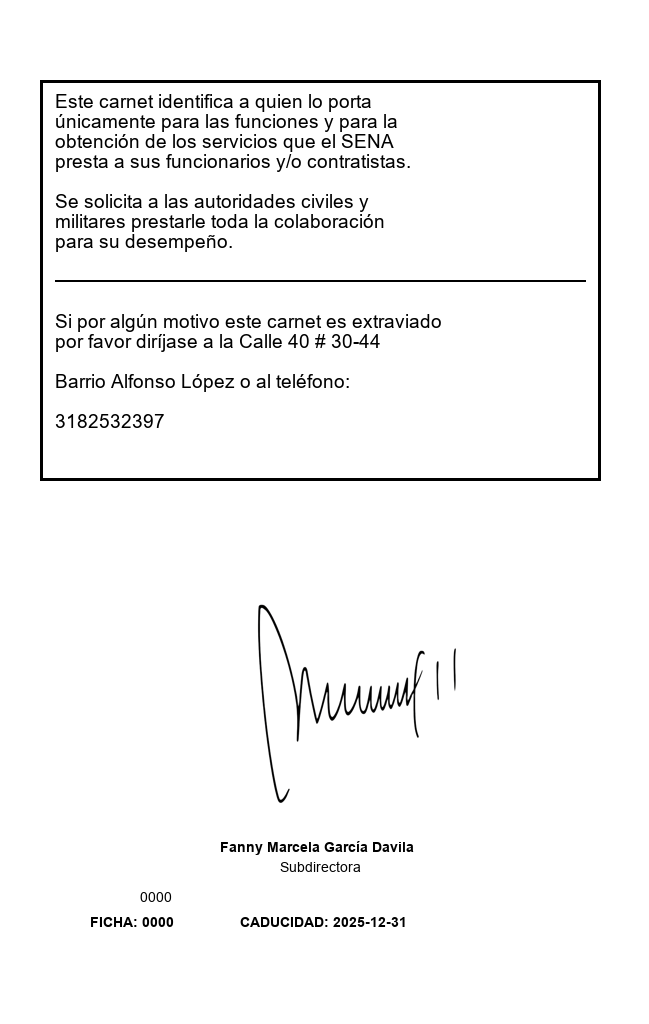
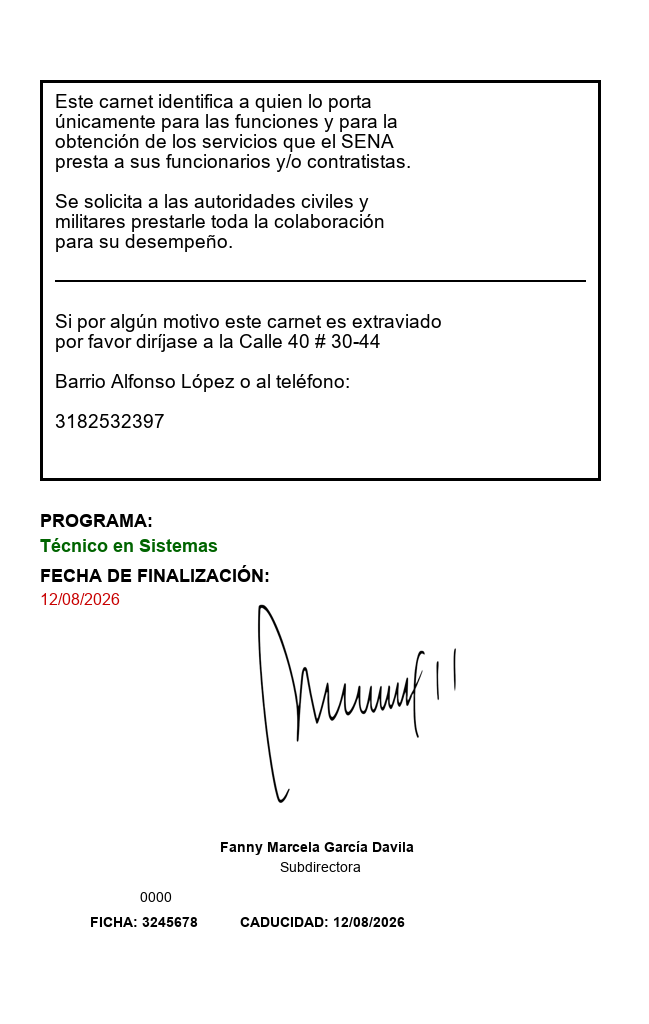
actualizaacion parte de atras del carnet

Changed region(s): [[0.0616, 0.5, 0.4006, 0.5938], [0.5239, 0.875, 0.6163, 0.9062], [0.2157, 0.875, 0.3082, 0.9062]]

diff --git a/imagen.py b/imagen.py
@@ -162,8 +162,10 @@ def generar_carnet(empleado, ruta_qr):
     # Fuente para el texto del reverso - TAMAÑO NORMAL
     try:
         font_reverso = ImageFont.truetype("arial.ttf", 19)  # Tamaño normal
+        font_programa = ImageFont.truetype("arialbd.ttf", 18)  # 🆕 Fuente para programa (negrita)
+        font_fecha = ImageFont.truetype("arial.ttf", 16)      # 🆕 Fuente para fecha
     except:
-        font_reverso = ImageFont.load_default()
+        font_reverso = font_programa = font_fecha = ImageFont.load_default()
 
     # CUADRO PRINCIPAL que encierra ambos textos
     cuadro_x, cuadro_y = 40, 80
@@ -209,6 +211,50 @@ def generar_carnet(empleado, ruta_qr):
     
     for i, line in enumerate(texto2_lines):
         draw_reverso.text((cuadro_x + 15, texto2_y + (i * 20)), line, fill=(0, 0, 0), font=font_reverso)
+
+    # 🆕🆕🆕 AGREGAR PROGRAMA Y FECHA DE FINALIZACIÓN 🆕🆕🆕
+    # Obtener datos del empleado
+    nombre_programa = empleado.get('nombre_programa', 'Programa Técnico')
+    fecha_finalizacion = empleado.get('fecha_vencimiento', '2025-12-31')
+    nivel_formacion = empleado.get('nivel_formacion', 'Técnico')
+    
+    # Formatear fecha (de YYYY-MM-DD a DD/MM/YYYY)
+    try:
+        from datetime import datetime
+        if '-' in fecha_finalizacion:  # Formato YYYY-MM-DD
+            fecha_obj = datetime.strptime(fecha_finalizacion, '%Y-%m-%d')
+            fecha_formateada = fecha_obj.strftime('%d/%m/%Y')
+        else:
+            fecha_formateada = fecha_finalizacion  # Ya está formateada
+    except:
+        fecha_formateada = fecha_finalizacion
+    
+    # Posición para el programa y fecha (debajo del cuadro principal)
+    info_adicional_y = cuadro_y + cuadro_alto + 30
+    
+    # 🎯 NOMBRE DEL PROGRAMA (con nivel de formación)
+    programa_completo = f"{nivel_formacion} en {nombre_programa}"
+    
+    # Dividir el programa en líneas si es muy largo
+    if len(programa_completo) > 45:  # Si es muy largo, dividir
+        palabras = programa_completo.split()
+        linea1_programa = " ".join(palabras[:4])  # Primeras 4 palabras
+        linea2_programa = " ".join(palabras[4:])  # Resto
+        
+        draw_reverso.text((cuadro_x, info_adicional_y), "PROGRAMA:", fill=(0, 0, 0), font=font_programa)
+        draw_reverso.text((cuadro_x, info_adicional_y + 25), linea1_programa, fill=(0, 100, 0), font=font_programa)
+        if linea2_programa:
+            draw_reverso.text((cuadro_x, info_adicional_y + 50), linea2_programa, fill=(0, 100, 0), font=font_programa)
+        siguiente_info_y = info_adicional_y + 80
+    else:
+        draw_reverso.text((cuadro_x, info_adicional_y), "PROGRAMA:", fill=(0, 0, 0), font=font_programa)
+        draw_reverso.text((cuadro_x, info_adicional_y + 25), programa_completo, fill=(0, 100, 0), font=font_programa)
+        siguiente_info_y = info_adicional_y + 55
+    
+    # 📅 FECHA DE FINALIZACIÓN
+    draw_reverso.text((cuadro_x, siguiente_info_y), "FECHA DE FINALIZACIÓN:", fill=(0, 0, 0), font=font_programa)
+    draw_reverso.text((cuadro_x, siguiente_info_y + 25), fecha_formateada, fill=(200, 0, 0), font=font_fecha)
+    # 🆕🆕🆕 FIN DE PROGRAMA Y FECHA 🆕🆕🆕
 
     # INFORMACIÓN ADICIONAL EN EL FONDO DEL CARNET CON FIRMA
     # Línea de firma (en el fondo)
@@ -270,10 +316,12 @@ def generar_carnet(empleado, ruta_qr):
     info_y = cargo_y + 30
     draw_reverso.text((cuadro_x + 100, info_y), "0000", fill=(0, 0, 0), font=font_info)
     
-    # FICHA y CADUCIDAD en el fondo
+    # 🆕 FICHA y CADUCIDAD ACTUALIZADAS CON DATOS REALES
     ficha_y = info_y + 25
-    draw_reverso.text((cuadro_x + 50, ficha_y), "FICHA: 0000", fill=(0, 0, 0), font=font_bold)
-    draw_reverso.text((cuadro_x + 200, ficha_y), "CADUCIDAD: 2025-12-31", fill=(0, 0, 0), font=font_bold)
+    # Usar código de ficha real del empleado
+    codigo_ficha_real = empleado.get('codigo_ficha', '0000')
+    draw_reverso.text((cuadro_x + 50, ficha_y), f"FICHA: {codigo_ficha_real}", fill=(0, 0, 0), font=font_bold)
+    draw_reverso.text((cuadro_x + 200, ficha_y), f"CADUCIDAD: {fecha_formateada}", fill=(0, 0, 0), font=font_bold)
 
     ruta_reverso = os.path.join("static", "carnets", f"reverso_{empleado['cedula']}.png")
     reverso.save(ruta_reverso, dpi=(300, 300))
